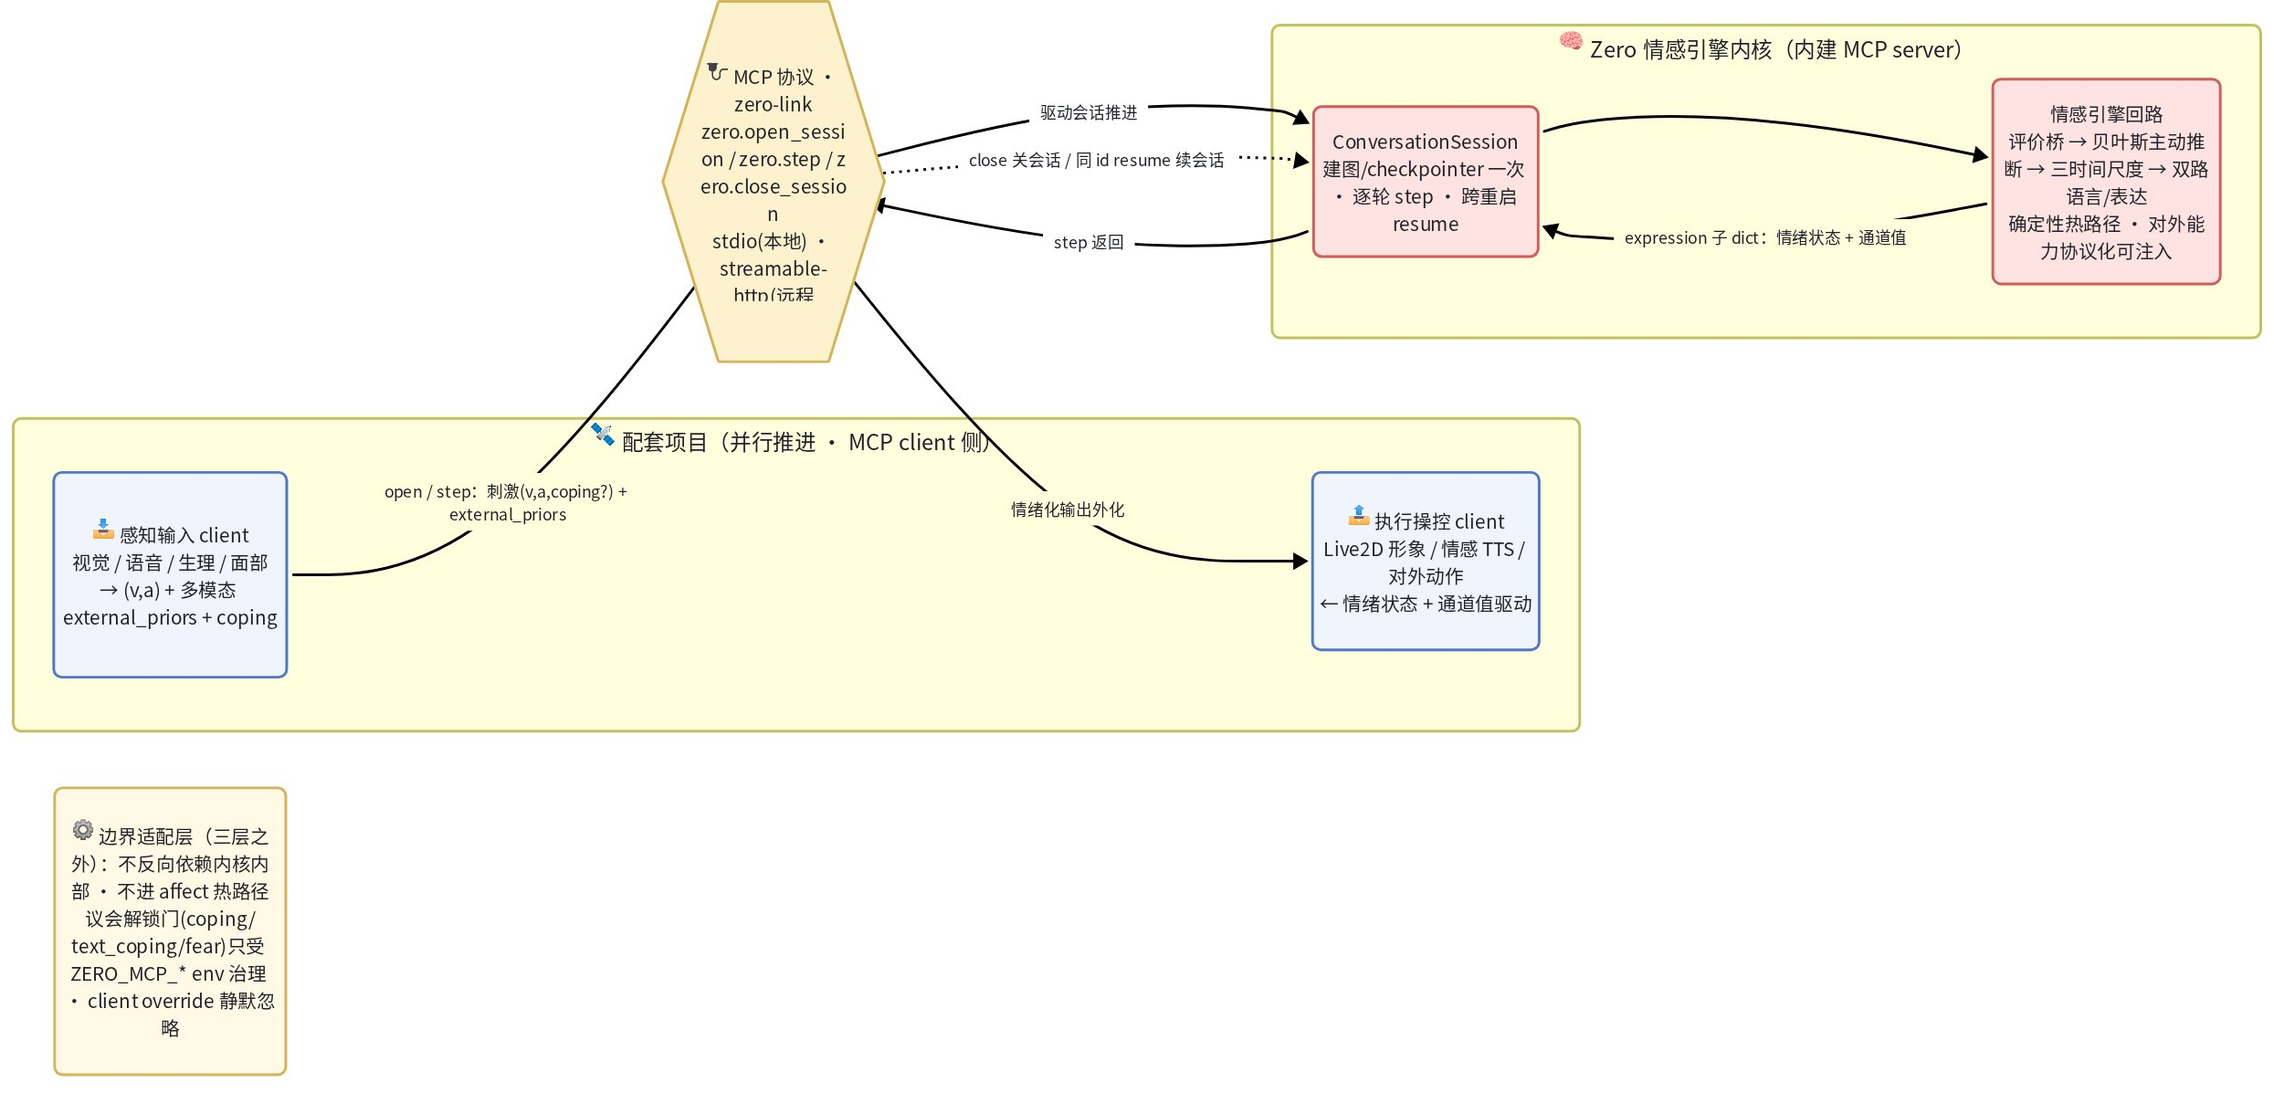
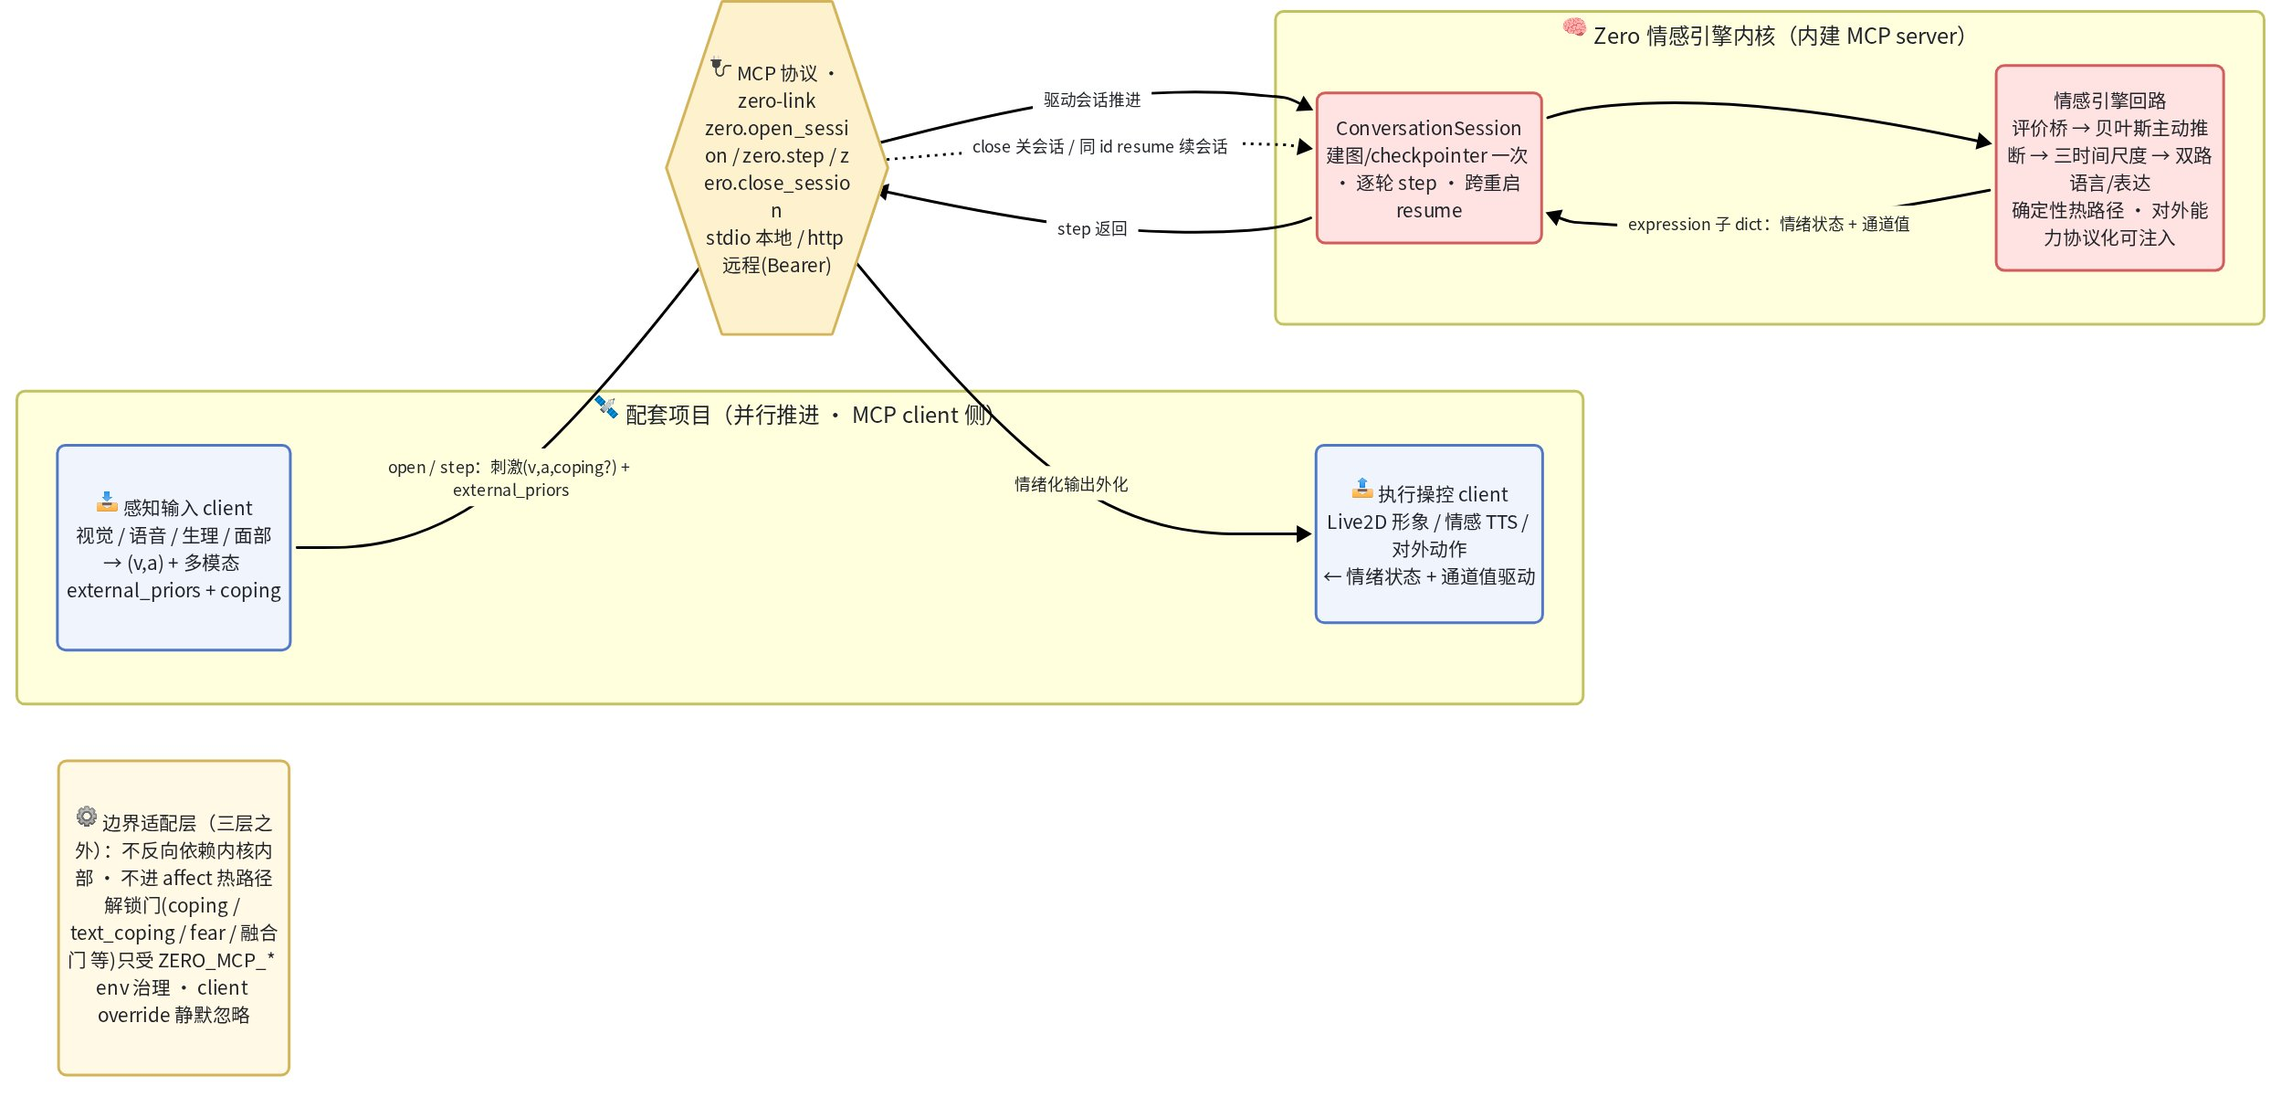
docs: 全量文档对齐 —— README 对外口径 + 图集 9→11 张 + 四处源码注释订正
代码走在文档前面。全仓审计出 124 条缺口（27 个文件），本 commit 覆盖其中随仓库
分发的部分（ai-docs/ 与 notes/ 在 gitignore 内，不入库）。

要害三条：

- 对外图混进内部话语：docs/v2/mcp-boundary.mmd 写着「议会解锁门」，且已渲进
  README 首屏内嵌的 PNG、读者可见。该图 2026-07-24 才加入，晚于两次去内部话语
  的提交（1d8365f / 8f96806），属孤例回潮。已改词并重渲。
- postgres 后端口径与源码相反：文档写「缺驱动回退 InMemory」，实为构造期无条件
  NotImplementedError。连带查出 docker-compose.yml 配的正是 postgres 后端 →
  按现仓 docker compose up 必崩，已改 sqlite，postgres 服务留作接线后的预留。
- 幽灵变量 ZERO_PG_DSN：README/.env.example/docker-compose.yml 三处都有，
  源码零读取点（postgres 分支一进函数就 raise，走不到读 DSN）。README 表删该行，
  模板与 compose 注释为预留。

README 其余对齐：§2 补「点燃门默认同时决定谁被报告/谁参与算数，
ZERO_IGNITION_GATE_FUSION=false 才分开」（该旋钮默认 true = 新行为关，方向与
其它旋钮相反）· 补齐 MCP 治理白名单 6 项与三个 ZERO_MCP_* 新变量，并说明无前缀
版本对 server 不生效 · 训练命令去掉在 plateau 停机下不生效的 --epochs 300 ·
补 external_prior.py / client.py / WEIGHTS.md 等结构树遗漏 · converse 签名与
图节点链订正 · 补 ZERO_LOG_CONSOLE(_PLAIN) 两个日志变量。

图集 9 → 11 张（均经飞书画板重渲，导出后比哈希确认换图）：
- 重渲 4 张：mcp-boundary（去内部话语）· workspace-ignition（补外部多模态先验流
  + 数值通路⊥报告通路 + 精度齐次化）· memory-architecture（补巩固与遗忘旁挂）·
  framework-current（补第三维旁挂）
- 新增 2 张：coping-third-dimension（第三维分岔，补 README 密度最高那段 callout）·
  consolidation-forgetting（配 tools/plot_consolidation.py，直接调
  src/memory/consolidation.py 真实现出图，改参数重跑即同步，非手绘示意）

源码 4 处注释与实际行为矛盾（仅注释，不动行为）：checkpointer.py 的 postgres
回退说法 · registry.py 的「无需显式关闭」（server 实际先 await session.aclose()）·
persona.py 仍写大五→PAD 待设计门（big_five_to_pad 早已落地）· mapping.py 指向
server.py:288-292 的失效行号。

验证：pytest 1720 passed / 16 skipped（与改动前基线逐字一致，零回归）·
[…]

Changed region(s): [[0.0, 0.0, 1.0, 0.9891]]

diff --git a/tools/plot_consolidation.py b/tools/plot_consolidation.py
@@ -1,0 +1,150 @@
+"""生成记忆巩固与遗忘曲线图（docs/v2/consolidation-forgetting.png）。
+
+数据不是手绘示意：直接调用 `src.memory.consolidation` 的真实现
+（`EbbinghausDecay` 分层幂律衰减 / `SleepConsolidation` 双准则升迁，全默认参数）
+逐日模拟，改遗忘指数或升迁门槛后重跑本脚本即可同步图与实现。
+
+跑：python -m tools.plot_consolidation
+依赖：matplotlib（仅本脚本的文档生成用，不在项目依赖里；任意 Python 环境
+`pip install matplotlib` 即可，consolidation 本身纯标准库）。
+"""
+
+from __future__ import annotations
+
+from datetime import UTC, datetime, timedelta
+from pathlib import Path
+from typing import Any
+
+import matplotlib
+
+matplotlib.use("Agg")
+import matplotlib.pyplot as plt
+
+from src.memory.consolidation import EbbinghausDecay, SleepConsolidation
+
+OUTPUT = Path("docs/v2/consolidation-forgetting.png")
+BIRTH = datetime(2026, 1, 1, tzinfo=UTC)
+DAYS = list(range(1, 61))
+
+COLOR_SESSION = "#D25D5A"
+COLOR_USER = "#5178C6"
+COLOR_SALIENT = "#8569CB"
+COLOR_MARK = "#D4B45B"
+
+
+def _episode(scope: str, salience: float, count: int = 0) -> dict[str, Any]:
+    return {
+        "episode_id": f"{scope}-{salience}",
+        "scope": scope,
+        "valid_at": BIRTH,
+        "salience": salience,
+        "consolidation_count": count,
+    }
+
+
+def decay_curve(scope: str, salience: float) -> list[float]:
+    """逐日取真实现算出的 decay_weight（每天一次 compute，取唯一一条的结果）。"""
+    decay = EbbinghausDecay()
+    weights: list[float] = []
+    for day in DAYS:
+        updates, _ = decay.compute([_episode(scope, salience)], now=BIRTH + timedelta(days=day))
+        weights.append(updates[0][0])
+    return weights
+
+
+def promotion_timeline() -> tuple[list[float], int | None]:
+    """一条被反复强化的 SESSION 记忆：每 3 天强化一次，满足双准则即升迁 USER。"""
+    decay = EbbinghausDecay()
+    sleep = SleepConsolidation()
+    salience = 0.30
+    scope = "session"
+    promoted_on: int | None = None
+    weights: list[float] = []
+    for day in DAYS:
+        now = BIRTH + timedelta(days=day)
+        count = day // 3  # 每 3 天被重新提及一次，consolidation_count 随之累加
+        ep = _episode(scope, salience, count)
+        if scope == "session":
+            _, to_promote = sleep.compute([ep], now=now)
+            if to_promote:
+                scope = "user"
+                promoted_on = day
+                ep = _episode(scope, salience, count)
+        updates, _ = decay.compute([ep], now=now)
+        weights.append(updates[0][0])
+    return weights, promoted_on
+
+
+def plot_decay(ax: plt.Axes) -> None:
+    ax.plot(
+        DAYS,
+        decay_curve("session", 0.5),
+        color=COLOR_SESSION,
+        lw=2.2,
+        label="SESSION 短期（d=0.8 快衰）",
+    )
+    ax.plot(
+        DAYS,
+        decay_curve("user", 0.5),
+        color=COLOR_USER,
+        lw=2.2,
+        label="USER 长期（d=0.3 慢衰）",
+    )
+    ax.plot(
+        DAYS,
+        decay_curve("session", 0.9),
+        color=COLOR_SALIENT,
+        lw=1.6,
+        ls="--",
+        label="SESSION 但高显著（salience 0.9）",
+    )
+    ax.set_title("分层幂律遗忘：同一条记忆，短期忘得快、长期忘得慢", fontsize=11)
+    ax.set_xlabel("距写入的天数 Δt")
+    ax.set_ylabel("decay_weight（召回权重）")
+    ax.set_ylim(0, 1.02)
+    ax.grid(alpha=0.25, lw=0.5)
+    ax.legend(loc="upper right", fontsize=9, framealpha=0.9)
+    for spine in ("top", "right"):
+        ax.spines[spine].set_visible(False)
+
+
+def plot_promotion(ax: plt.Axes) -> None:
+    weights, promoted_on = promotion_timeline()
+    ax.plot(DAYS, weights, color=COLOR_SESSION, lw=2.2, label="被反复提及的一条记忆")
+    if promoted_on is not None:
+        ax.axvline(promoted_on, color=COLOR_MARK, lw=1.4, ls=":")
+        ax.annotate(
+            f"第 {promoted_on} 天：显著度与强化次数双双达标\nSESSION → USER，之后换慢衰曲线",
+            xy=(promoted_on, weights[promoted_on - 1]),
+            xytext=(promoted_on + 6, 0.72),
+            fontsize=9,
+            color="#5C6370",
+            arrowprops={"arrowstyle": "->", "color": COLOR_MARK, "lw": 1.0},
+        )
+    ax.set_title("睡眠巩固：只有反复被强化的显著记忆才升为长期", fontsize=11)
+    ax.set_xlabel("距写入的天数 Δt")
+    ax.set_ylim(0, 1.02)
+    ax.grid(alpha=0.25, lw=0.5)
+    ax.legend(loc="upper right", fontsize=9, framealpha=0.9)
+    for spine in ("top", "right"):
+        ax.spines[spine].set_visible(False)
+
+
+def main() -> None:
+    plt.rcParams["font.sans-serif"] = ["Microsoft YaHei", "SimHei", "Noto Sans CJK SC"]
+    plt.rcParams["axes.unicode_minus"] = False
+    fig, (ax1, ax2) = plt.subplots(1, 2, figsize=(11.5, 4.0), sharey=True)
+    plot_decay(ax1)
+    plot_promotion(ax2)
+    fig.suptitle(
+        "记忆巩固与遗忘（consolidation 真实现·默认参数·该机制默认关闭）",
+        fontsize=12,
+    )
+    fig.tight_layout()
+    OUTPUT.parent.mkdir(parents=True, exist_ok=True)
+    fig.savefig(OUTPUT, dpi=160, bbox_inches="tight", facecolor="white")
+    print(f"written {OUTPUT}")
+
+
+if __name__ == "__main__":
+    main()

diff --git a/src/agents/persona.py b/src/agents/persona.py
@@ -6,8 +6,9 @@
 - **L1 人设卡** `card`：身份/背景/口吻/与用户关系，注入对话 system prompt（`OpenAILanguageModel`）。
 - **L2 气质底色** `setpoint/reactivity/recovery`：情感引擎的个体基线与反应性——慢变态度回归的锚
   （[[ATTITUDE_SETPOINT]] 注释预留的「人格阶段」）与快变情绪的反应/恢复速率。**只暴露旋钮、默认
-  中性**；「大五→PAD 的具体数值映射 / 预设人格库」是科学决策，须走 `/science-council` 设计门，
-  本模块不替算法拍板。
+  中性**；「大五→PAD 数值映射」已过设计门并落地（见 `big_five_to_pad`，Mehrabian 口径），
+  JSON 侧填 `big_five` 即自动推导 setpoint 与 va_coupling。**预设人格库**仍是科学决策、未落地，
+  本模块不替算法拍板具体性格参数。
 - **L3 预置关系** `initial_attitude/seed_memories`：首次接触时的初始态度 + 预灌的共同记忆，
   让数字人「一开始就认识/在意某人」，而非从零相处。
 

diff --git a/src/storage/checkpointer.py b/src/storage/checkpointer.py
@@ -34,7 +34,8 @@ def build_checkpointer(
     backend 取 env `ZERO_CHECKPOINT_BACKEND`：`memory`（默认）/ `sqlite` / `postgres`。
     allowed_types：白名单从 checkpoint 反序列化的自定义类型 (module, qualname)，由编排层提供——
     `allowed_msgpack_modules` 正是 langgraph 反序列化告警建议的格式，勿改成纯模块名字符串列表。
-    sqlite/postgres 缺驱动时回退 InMemory（容器内装 `db` extra 后即生效）。
+    sqlite 缺驱动时告警回退 InMemory（容器内装 `db` extra 后即生效）；postgres **未接线**，
+    选中即构造期 `NotImplementedError` fail-fast，**不回退**（理由见 `_postgres_saver`）。
     """
     serde = (
         JsonPlusSerializer(allowed_msgpack_modules=list(allowed_types))

diff --git a/src/mcp_server/mapping.py b/src/mcp_server/mapping.py
@@ -42,7 +42,8 @@ def stimulus_from_payload(
       钳制是映射的一部分，不是防御。
     - `valence` 越域 → `Stimulus` 的 `Field(ge=-1, le=1)` **拒绝**（`state.py:27-33`）。
       因为这里是恒等透传，越域即 client 违反 `AffectStimulus` 契约，与 M3/M6/M7
-      同一处置（fail-fast 指向 MCP 传参）。`server.py:288-292` 转 ToolError，不裸崩。
+      同一处置（fail-fast 指向 MCP 传参）。`server.step` 的 `stimulus_from_payload` 外层
+      `except (ValueError, TypeError)` 转 ToolError，不裸崩。
     改动此不对称须与配套项目 Zero_MCP 协调（对外契约）。
 
     coping 是否真正生效由会话侧 `coping_potential_enabled` 门控决定；生效时走 B3 四分支融合

diff --git a/src/mcp_server/registry.py b/src/mcp_server/registry.py
@@ -55,7 +55,8 @@ class SessionRegistry:
     async def close(self, session_id: str) -> bool:
         """释放会话 + 其锁；返回是否确有其会话（未知 id 幂等返回 False，不报错）。
 
-        ConversationSession 无需显式关闭（图/checkpointer 随对象回收）；从表中弹出即释放引用。
+        本方法只负责从表中弹出引用；会话自身的运行态连接（aiosqlite 等）由调用方在此之前
+        `await session.aclose()` 关闭（见 `server.close_session`），别依赖对象回收。
         """
         async with self.lock:
             self.locks.pop(session_id, None)

diff --git a/docs/README.md b/docs/README.md
@@ -1,19 +1,22 @@
 # docs/ — 框架图（v1 旧版存档 / v2 当前）
 
-- **`v2/`** — **现阶段权威架构图**（2026-07-03 与当前实现全套同步：大五→PAD 上图 / 记忆遗忘语义纠偏 / 记忆·态度反哺边 / 习惯化·分寸；并新增 3 张架构图 + 1 张动力学曲线）。README 内嵌的就是这套。架构图有 `.mmd`（Mermaid 源，**当前 PNG 由它经飞书画板渲染**）+ `.png`（渲染图）；旧四图另有 `.json`（whiteboard-cli DSL，富样式备选，**内容停在 2026-06-30、待同步**）。
+- **`v2/`** — **现阶段权威架构图**（共 **11 张**：9 张架构图 + 2 张动力学曲线；与当前实现对齐）。README 内嵌的就是这套。架构图有 `.mmd`（Mermaid 源，**当前 PNG 由它经飞书画板渲染**）+ `.png`（渲染图）；旧四图另有 `.json`（whiteboard-cli DSL 富样式备选，**已不再维护、不保证与 `.mmd` 一致——一律以 `.mmd` 为准**；已知 `framework-current.json` 未收录实验特性旁挂等较新标注）。
 - **`v1/`** — 上一版存档（2026-06-25）：仅 `framework-current` / `runtime-flow` 两张的 `.json` + `.png`（whiteboard-cli DSL 渲染）。保留供对照，不再内嵌、不再维护。
 
 ## v2 文件
 
 | 图 | 源 | 说明 |
 | --- | --- | --- |
-| `framework-current` | `.mmd` / `.json` / `.png` | **情绪引擎框架图**（总览）：评价桥 → 引擎 → 三时间尺度(含稳态回弹) → 双路语言 + 表达双通路 → 表现；记忆桥与人格注入旁挂；**+ 三条实验特性虚线旁挂（默认关闭）：🫂 ToM 共情 / 🧪 HPA 皮质醇慢回路 / 🏛 层级预测编码** |
+| `framework-current` | `.mmd` / `.json` / `.png` | **情绪引擎框架图**（总览）：评价桥 → 引擎 → 三时间尺度(含稳态回弹) → 双路语言 + 表达双通路 → 表现；记忆桥与人格注入旁挂；**+ 四条虚线旁挂（默认关闭）：🧭 情感第三维 coping_potential（可选·区分愤怒/恐惧）/ 🫂 ToM 共情 / 🧪 HPA 皮质醇慢回路 / 🏛 层级预测编码（实验特性）** |
 | `runtime-flow` | `.mmd` / `.json` / `.png` | **项目运作流程图（LLM ⊗ 情感引擎）**：一轮对话怎么走，标注 LLM 接点 / 确定性引擎 / 跨轮持久(emotion 会话内·attitude 落盘) / 人格接点 / 记忆·态度反哺评价先验两条回边 |
-| `memory-architecture` | `.mmd` / `.json` / `.png` | **记忆架构图（注意力↔记忆桥）**：显著性门控写(含写入 dedup) → 情景库(容量遗忘·语义侧信道) → 三维召回重排 → 注入注意力预算；disposition 确定性图谱·时序失效·偏置评价 |
+| `memory-architecture` | `.mmd` / `.json` / `.png` | **记忆架构图（注意力↔记忆桥）**：显著性门控写(含写入 dedup) → 情景库(容量遗忘·语义侧信道) → 三维召回重排 → 注入注意力预算；disposition 确定性图谱·时序失效·偏置评价；**+ 可选的巩固与遗忘旁挂（默认关）：睡眠巩固 SESSION→USER / 分层幂律遗忘 / ACT-R 频率召回** |
 | `persona-injection` | `.mmd` / `.json` / `.png` | **人格注入图**：Persona 三层（L1 人设卡→语言 / L2 气质底色·大五→PAD·va_coupling→引擎 / L3 预置关系→记忆），默认中性、行为不变 |
 | `chat-persistence-map` | `.mmd` / `.png` | **--chat 数据落点地图**：一轮对话的数据各落哪个存储（对话运行态 / Checkpointer / 确定性图谱 / 语义侧信道 / 日志）、归哪个 env 变量管、chat 默认值 |
 | `layered-architecture` | `.mmd` / `.png` | **三层架构图**：编排 → 记忆 → 存储只能向下依赖，observability 横切 |
-| `workspace-ignition` | `.mmd` / `.png` | **工作空间点燃图**：五条并行流 (μ,π) → 显著网络打分 → 过阈点燃广播 → 精度加权融合 → 后验读出 e* |
+| `mcp-boundary` | `.mmd` / `.png` | **MCP 接点边界图**：内核内建 MCP server（open/step/close 三工具）← MCP 协议 → 配套项目的感知输入 client + 执行操控 client；标出哪些在本仓、哪些在对面 |
+| `workspace-ignition` | `.mmd` / `.png` | **工作空间点燃图**：并行流 (μ,π)（OCC 评价 / TD 价值 / 快生存 / 心境 / 文本语义 + 经 MCP 注入的外部多模态先验）→ 显著网络打分 → 过阈点燃广播 → 精度加权融合 → 后验读出 e*；另标出可选的「数值通路 ⊥ 报告通路」分离（`ZERO_IGNITION_GATE_FUSION`）与生理流排除（`ZERO_EXCLUDE_PHYSIO_FUSION`） |
+| `coping-third-dimension` | `.mmd` / `.png` | **第三维分岔图**：同一个负效价高唤醒坐标 (v&lt;0,a&gt;0)，由情境控制感 `control_appraisal` 驱动的独立标量流分成愤怒(有掌控)/恐惧(失控)，再下传到判别性表情 AU（愤怒 AU23 / 恐惧 AU01·02·20）；默认关、核心 (v,a) 不受影响。总览图 `framework-current` 只标该能力存在，机制细节看这张 |
+| `consolidation-forgetting` | `tools/plot_consolidation.py` / `.png` | **巩固与遗忘曲线**：左=分层幂律遗忘（SESSION d=0.8 快衰 vs USER d=0.3 慢衰，叠高显著度的振幅调制），右=一条被反复强化的记忆在双准则达标那天升迁 SESSION→USER 后改走慢衰。直接调 `src/memory/consolidation.py` 真实现生成，改参数重跑脚本即同步；该机制默认关 |
 | `timescales-dynamics` | `tools/plot_timescales.py` / `.png` | **三时间尺度冲击-响应曲线**：单次冲击 vs 反复刺激双面板，`affect_math` 真方程轨迹（matplotlib 生成，改动力学参数后重跑脚本即同步） |
 
 ## 结构（情绪引擎框架图 · 左→右流水线）
@@ -25,6 +28,7 @@
             → 🎭 表达双通路(自发/随意 × 4 通道)            ┴→ 💬 最终表现
 🎭 人格 Persona(可选) → 人设卡进语言 · 气质 setpoint 进时间尺度 · 预置关系进记忆
 情感引擎 ⇄ 🗄 记忆/持久(注意力↔记忆桥：显著性写·三维召回·注入预算·时序遗忘)；三时间尺度 → 态度落盘
+🧭 情感第三维 coping_potential(可选·默认关) → 情境控制感驱动的独立标量流(与 v,a 正交、不入融合) → 表情判别性 AU · 用词区分愤怒/恐惧
 ⚗ 实验特性(虚线·默认关闭·不开启则行为不变)：🫂 ToM 对方情绪→共情偏置进引擎 · 🧪 HPA 皮质醇→抬 arousal 基线/放大态度率 · 🏛 层级预测编码→引擎融合层级化
 ```
 
